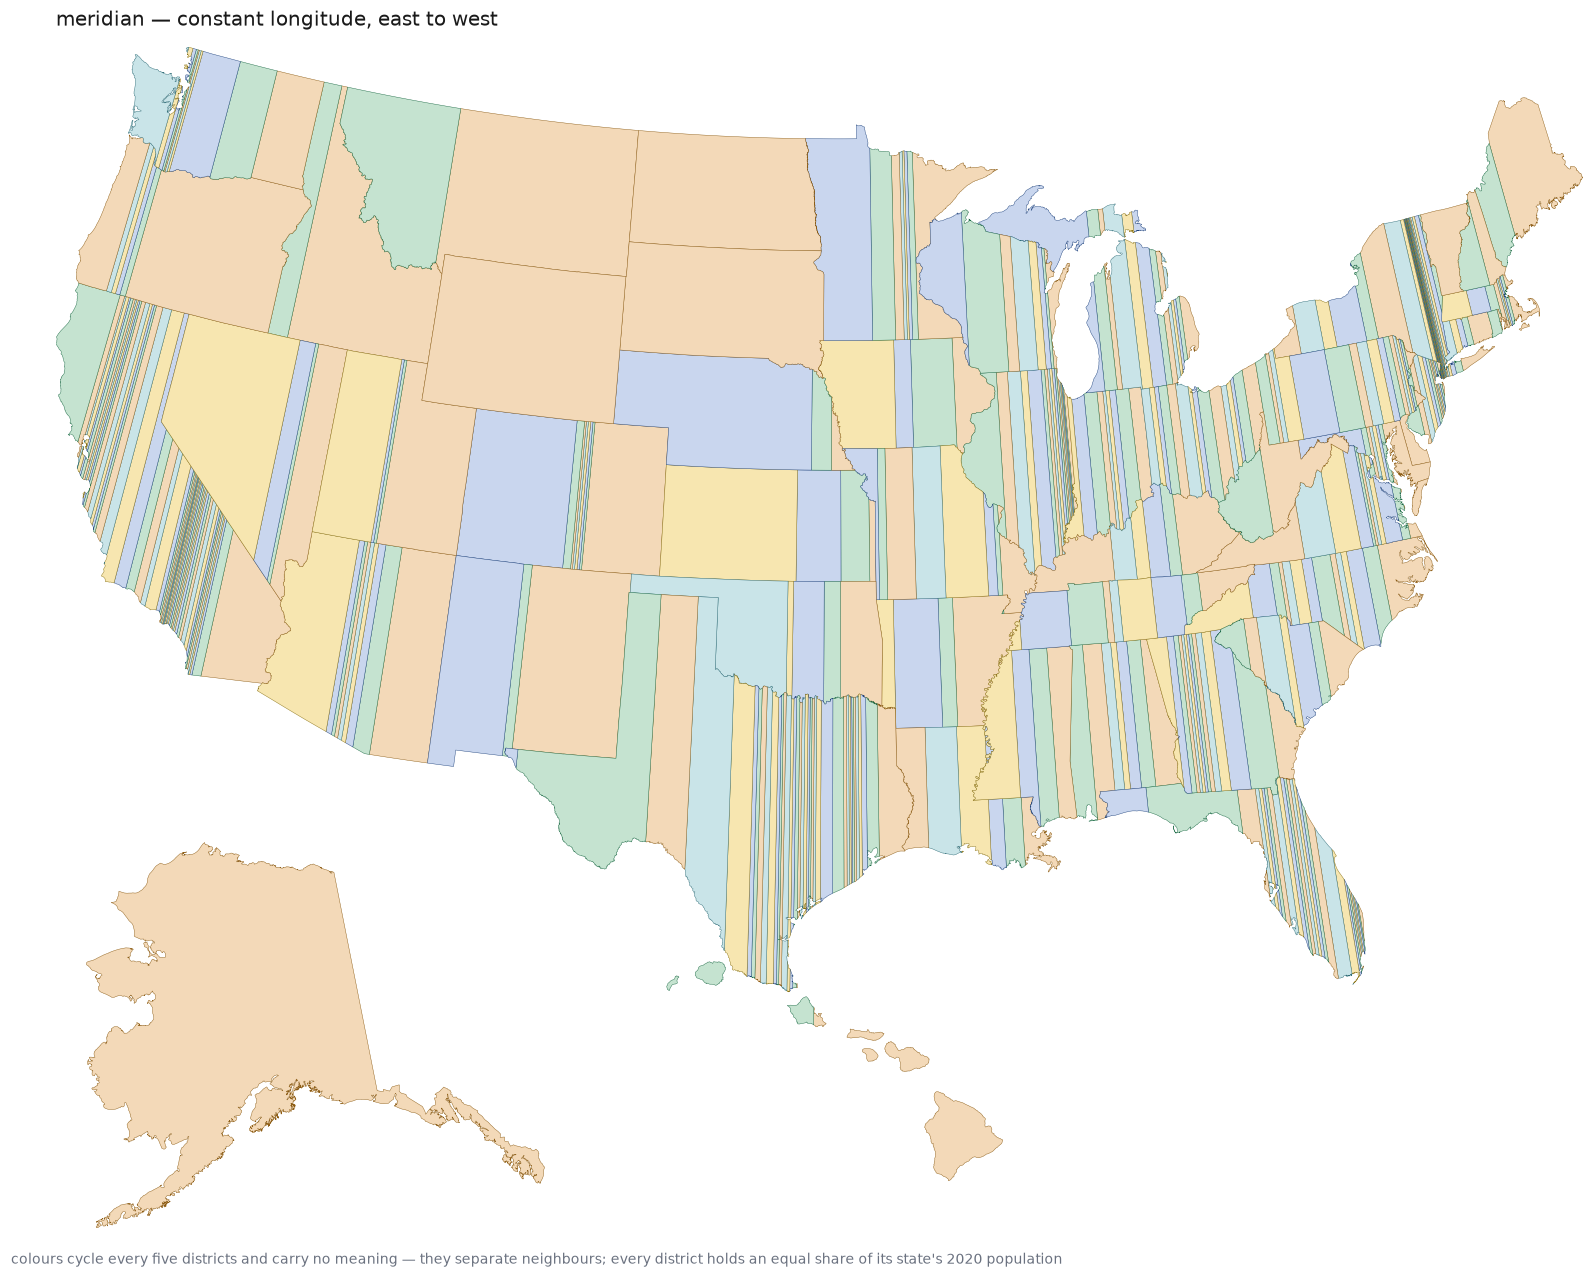
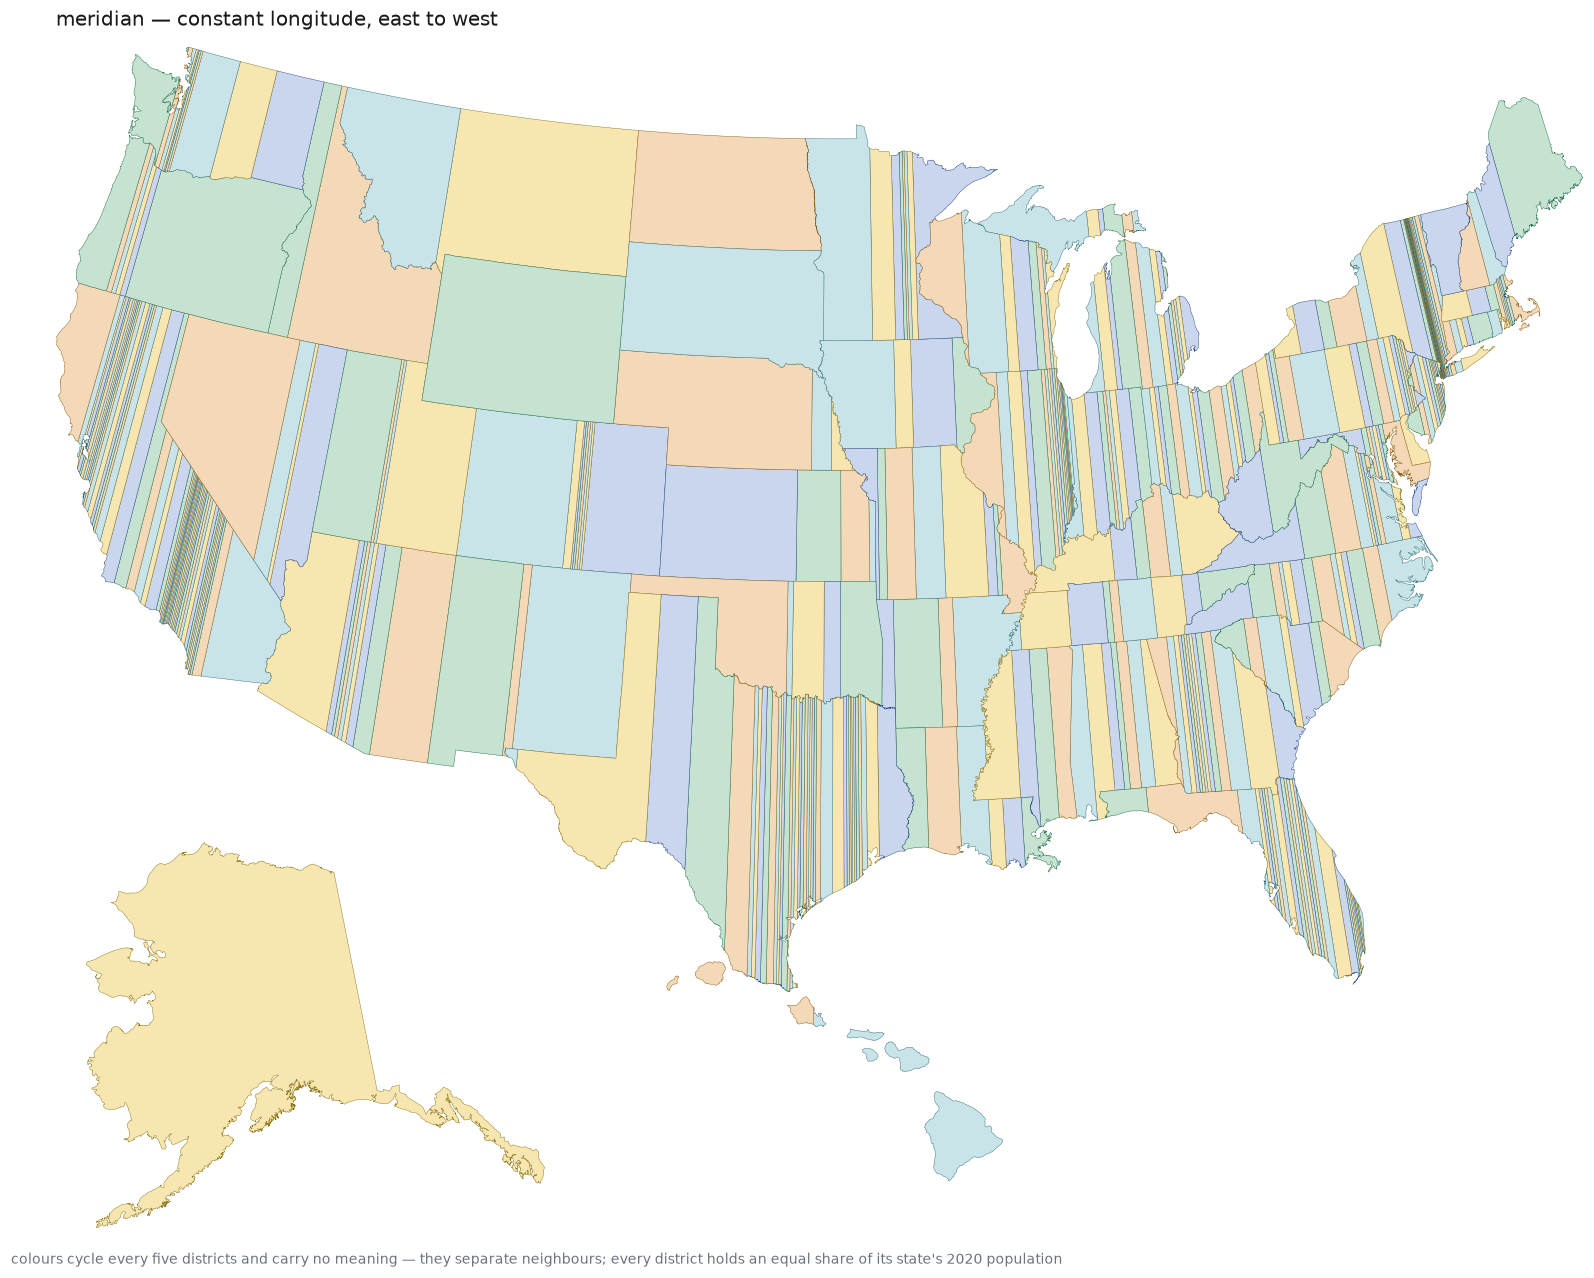
Vary each state's starting point in the colour cycle
Starting every state at slot 0 made that hue dominate: district 1 was the same
colour in all fifty states, and the six single-district states were entirely
that colour. Montana, Wyoming and the Dakotas are mutually adjacent, so they
fused into one tan mass with their shared borders invisible.

Randomising the start would fix the dominance but can still seat the same hue
on both sides of a border. State adjacency is a planar graph, so four colours
would do and five leave room: greedy colouring by descending degree guarantees
no two neighbours share an offset, and picking the least-used valid slot keeps
the hues evenly worked. Result is 0 adjacent clashes and exactly 10 states per
slot. Deterministic, so the figures reproduce without a seed.

This equalises the STARTING slot, not every boundary -- two neighbours with
different offsets can still meet at a shared hue further along their cycles.
No cyclic scheme can promise otherwise.

diff --git a/scripts/preview_national_models.py b/scripts/preview_national_models.py
@@ -39,6 +39,7 @@ from matplotlib.patches import PathPatch, Polygon as MplPolygon
 from matplotlib.path import Path as MplPath
 from shapely import affinity
 
+import fetch_data
 from build_districts import crs_for
 
 ROOT = Path(__file__).resolve().parent.parent
@@ -66,9 +67,54 @@ TITLES = {
 }
 
 
-def pair(k):
-    """Fill and stroke for district k (1-indexed), cycled."""
-    return FILLS[(k - 1) % 5], STROKES[(k - 1) % 5]
+def pair(k, offset=0):
+    """Fill and stroke for district k (1-indexed), cycled from a per-state offset."""
+    i = (k - 1 + offset) % 5
+    return FILLS[i], STROKES[i]
+
+
+def state_offsets(codes):
+    """
+    Where each state starts in the colour cycle.
+
+    Starting every state at slot 0 makes that one hue dominate: district 1 is
+    the same colour in all fifty states, and the six single-district states are
+    ENTIRELY that colour. Montana, Wyoming and the Dakotas are mutually adjacent,
+    so they fused into one tan mass with their shared borders invisible.
+
+    Randomising the start fixes the dominance but can still seat the same hue on
+    both sides of a border. State adjacency is a planar graph, so four colours
+    would suffice and five leave room to spare -- greedy colouring by descending
+    degree guarantees no two neighbours share an offset, and picking the
+    least-used valid slot keeps the five hues evenly worked. Deterministic, so
+    the figures are reproducible without a seed.
+
+    Note this equalises the STARTING slot, not every boundary: two neighbours
+    with different offsets can still meet at a shared hue further along their
+    cycles. No cyclic scheme can promise otherwise.
+    """
+    g = gpd.read_file(fetch_data.fetch_state_boundaries()).to_crs("EPSG:5070")
+    g = g[g["STUSPS"].isin(codes)][["STUSPS", "geometry"]].copy()
+    g["geometry"] = g.geometry.buffer(1500)  # close cartographic slivers
+    j = gpd.sjoin(g, g, predicate="intersects")
+
+    adj = {c: set() for c in codes}
+    for a, b in zip(j["STUSPS_left"], j["STUSPS_right"]):
+        if a != b:
+            adj[a].add(b)
+
+    used = [0] * 5
+    off = {}
+    for c in sorted(codes, key=lambda x: (-len(adj[x]), x)):
+        taken = {off[n] for n in adj[c] if n in off}
+        cand = [i for i in range(5) if i not in taken] or list(range(5))
+        pick = min(cand, key=lambda i: (used[i], i))
+        off[c] = pick
+        used[pick] += 1
+
+    clashes = sum(1 for c in codes for n in adj[c] if n in off and off[n] == off[c]) // 2
+    print(f"  offsets: {clashes} adjacent-state clashes, usage {used}")
+    return off
 
 
 def placed(geom, p):
@@ -94,7 +140,7 @@ def patch_for(geom, fc, ec):
                      edgecolor=ec, linewidth=LW, joinstyle="round")
 
 
-def draw_outward(ax, spec, p):
+def draw_outward(ax, spec, p, off=0):
     for lobe in spec["lobes"]:
         o = np.asarray(lobe["outline"])
         a = np.asarray(lobe["anchor"])
@@ -105,7 +151,7 @@ def draw_outward(ax, spec, p):
         # Back to front: each smaller copy covers the middle of the last, so the
         # visible band is the district and its stroke marks that band's outer edge.
         for k in range(spec["seats"], 0, -1):
-            fc, ec = pair(k)
+            fc, ec = pair(k, off)
             g = placed(shapely.Polygon(a + (o - a) * spec["breaks"][k]), p)
             pt = MplPolygon(np.asarray(g.exterior.coords), closed=True,
                             facecolor=fc, edgecolor=ec, linewidth=LW)
@@ -113,41 +159,42 @@ def draw_outward(ax, spec, p):
             pt.set_clip_path(clip)
 
 
-def draw_inward(ax, res, p):
+def draw_inward(ax, res, p, off=0):
     # Shells nest, so painting outermost first and each deeper one on top leaves
     # district k+1 visible in its own band.
     for k, shell in enumerate(res["shells"]):
-        fc, ec = pair(k + 1)
+        fc, ec = pair(k + 1, off)
         for ring in shell:
             g = placed(shapely.Polygon(ring), p)
             ax.add_patch(MplPolygon(np.asarray(g.exterior.coords), closed=True,
                                     facecolor=fc, edgecolor=ec, linewidth=LW))
 
 
-def draw_stripes(ax, usps, model, p):
+def draw_stripes(ax, usps, model, p, off=0):
     g = gpd.read_file(ROOT / f"data/gis_{model}" / f"{usps.lower()}_{model}.geojson")
     g = g.to_crs(crs_for(usps)).sort_values("district")
     for _, r in g.iterrows():
-        fc, ec = pair(int(r["district"]))
+        fc, ec = pair(int(r["district"]), off)
         patch = patch_for(placed(r.geometry, p), fc, ec)
         if patch is not None:
             ax.add_patch(patch)
 
 
-def render(ax, model, meta):
+def render(ax, model, meta, offsets):
     for f in sorted((ROOT / "data" / "derived").glob("*_districts.json")):
         usps = f.name[:2].upper()
         p = meta["placement"].get(usps)
+        off = offsets.get(usps, 0)
         if model == "outward":
-            draw_outward(ax, json.loads(f.read_text(encoding="utf-8")), p)
+            draw_outward(ax, json.loads(f.read_text(encoding="utf-8")), p, off)
         elif model == "inward":
             src = ROOT / "data/derived_inward" / f"{usps.lower()}_inward.json"
             if src.exists():
-                draw_inward(ax, json.loads(src.read_text(encoding="utf-8")), p)
+                draw_inward(ax, json.loads(src.read_text(encoding="utf-8")), p, off)
         else:
             src = ROOT / f"data/gis_{model}" / f"{usps.lower()}_{model}.geojson"
             if src.exists():
-                draw_stripes(ax, usps, model, p)
+                draw_stripes(ax, usps, model, p, off)
 
     x0, y0, x1, y1 = meta["frame_bbox"]
     ax.set_xlim(x0, x1)
@@ -169,10 +216,13 @@ def main():
     docs = ROOT / "docs"
     docs.mkdir(exist_ok=True)
 
+    codes = sorted(f.name[:2].upper() for f in (ROOT / "data" / "derived").glob("*_districts.json"))
+    offsets = state_offsets(codes)
+
     todo = [args.only] if args.only else MODELS
     for model in todo:
         fig, ax = plt.subplots(figsize=(15, 15 * aspect), dpi=args.dpi)
-        render(ax, model, meta)
+        render(ax, model, meta, offsets)
         ax.set_title(TITLES[model], fontsize=13, loc="left", color="#1a1a1a", pad=14)
         fig.text(0.01, 0.005, SUBTITLE, fontsize=9, color="#6b7280", ha="left")
         fig.tight_layout(rect=(0, 0.02, 1, 1))
@@ -184,7 +234,7 @@ def main():
     if not args.only:
         fig, axes = plt.subplots(2, 2, figsize=(24, 24 * aspect), dpi=args.dpi)
         for ax, model in zip(axes.ravel(), MODELS):
-            render(ax, model, meta)
+            render(ax, model, meta, offsets)
             ax.set_title(TITLES[model], fontsize=13, loc="left", color="#1a1a1a", pad=10)
         fig.text(0.01, 0.005, SUBTITLE, fontsize=11, color="#6b7280", ha="left")
         fig.tight_layout(rect=(0, 0.015, 1, 1))

diff --git a/README.md b/README.md
@@ -72,6 +72,14 @@ tan → green → blue → yellow → cyan roughly doubles the worst adjacent pa
 (fills ΔE 3.3 → 6.3, strokes 8.2 → 14.4). The pale fills carry mass and the
 darker strokes, all clearing 3:1 against the surface, carry the boundaries.
 
+Each state also *starts* at a different point in the cycle. Starting them all at
+slot 0 made one hue dominate — district 1 was the same colour in all fifty
+states, and the six single-district states were entirely that colour, fusing
+Montana, Wyoming and the Dakotas into one mass with their shared borders
+invisible. State adjacency is a planar graph, so greedy colouring by descending
+degree seats no two neighbours on the same offset, with the least-used slot
+breaking ties: 0 clashes and an exactly even 10 states per slot.
+
 Per state, the same four:
 
 ![The four models compared across five states](docs/four_models.png)
